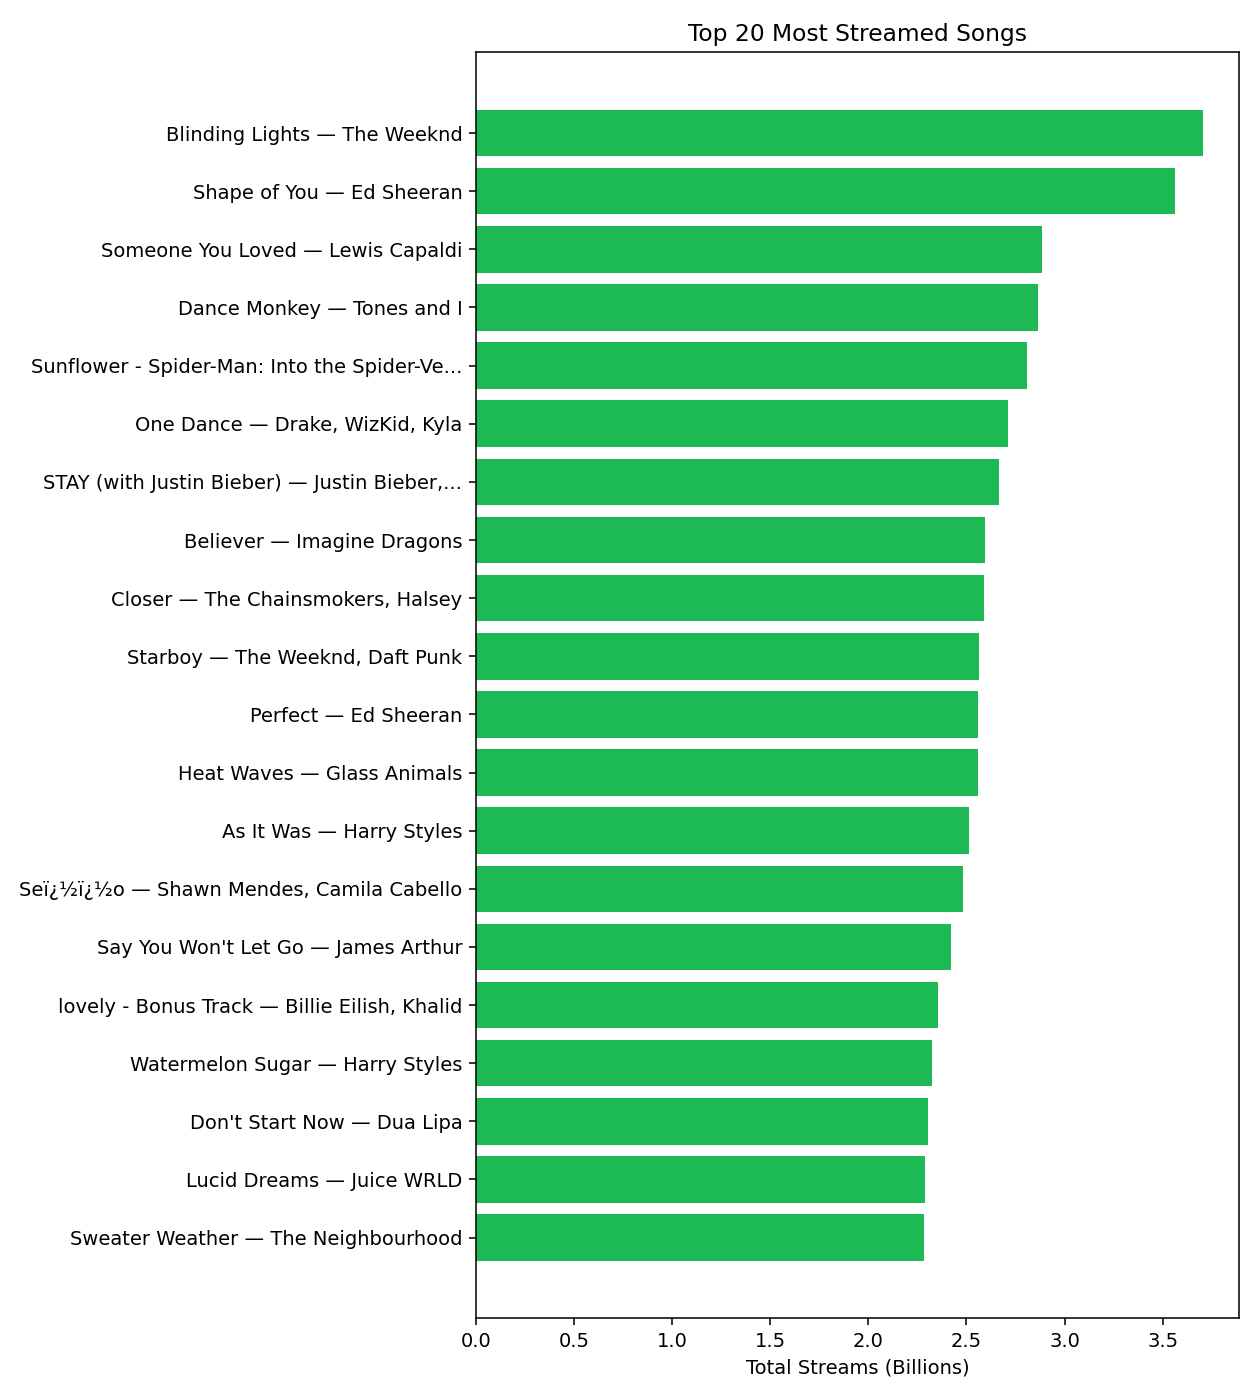
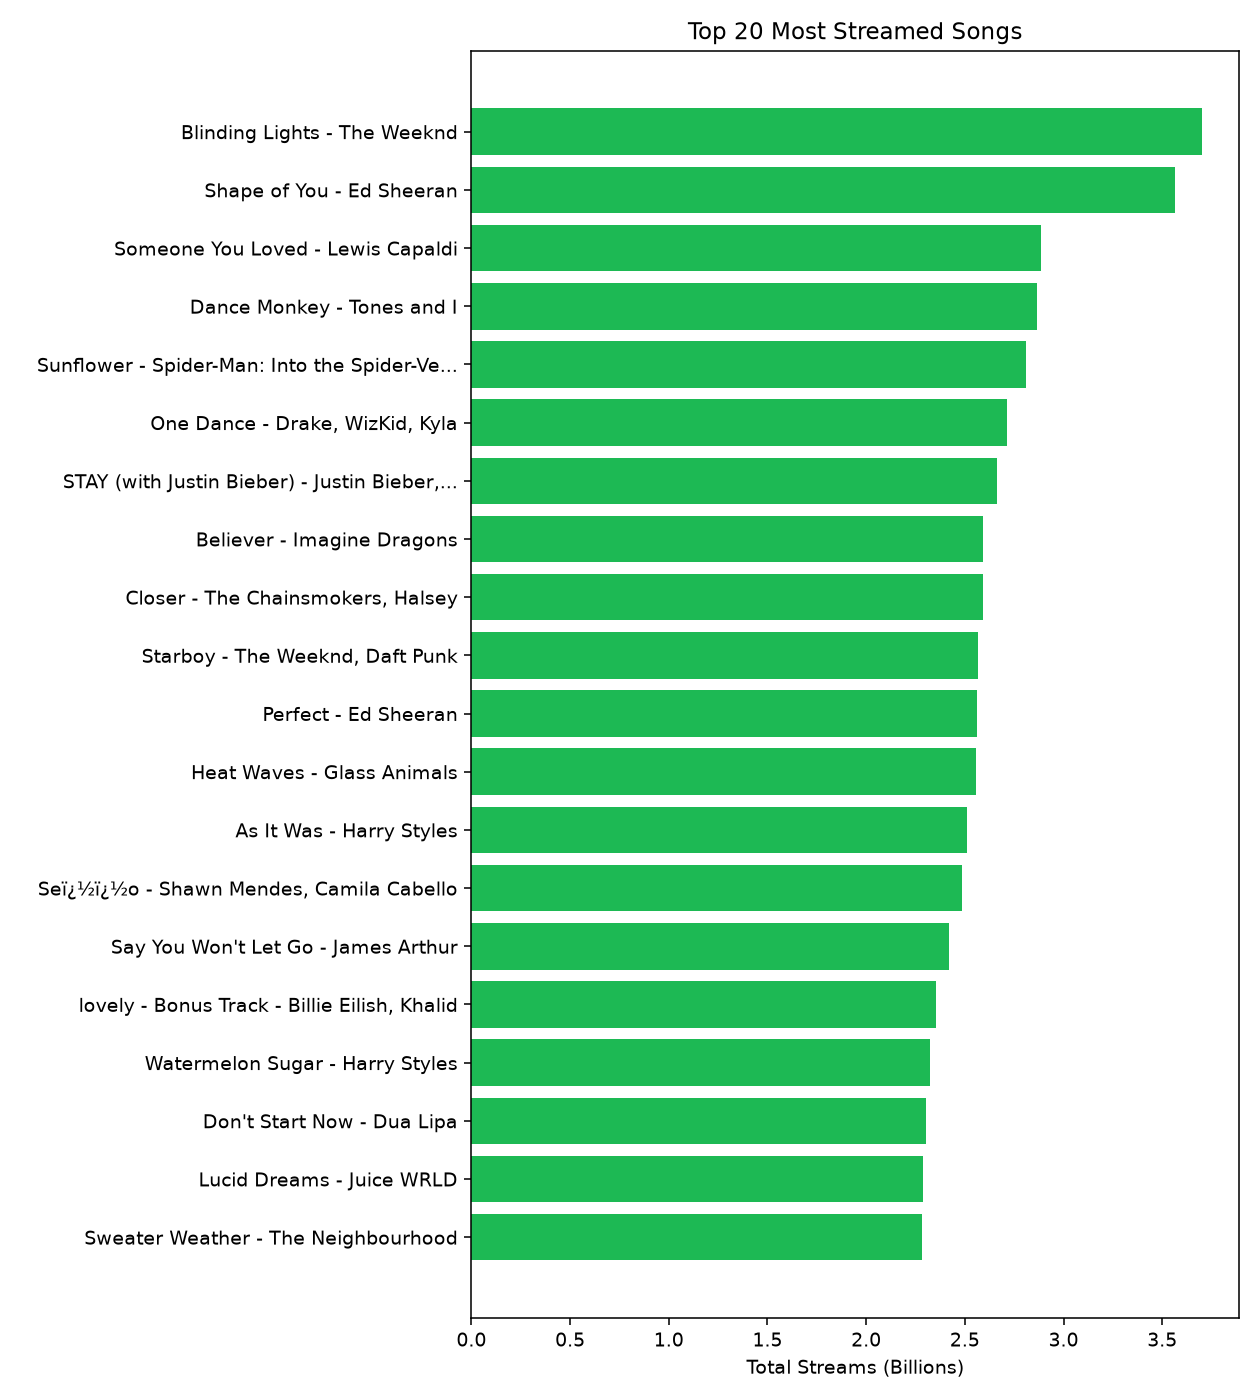
grammatical fixes

diff --git a/visuals.py b/visuals.py
@@ -77,7 +77,7 @@ def load_user(path: str = "spotify_history.csv") -> pd.DataFrame:
 def plot_global_top_songs(df: pd.DataFrame, n: int = 20) -> None:
     top = df.nlargest(n, "streams")[::-1]
     plt.figure(figsize=(9, 10))
-    labels = (top["track_name"] + " — " + top["artist_name"]).apply(lambda s: truncate_label(s, 45))
+    labels = (top["track_name"] + " - " + top["artist_name"]).apply(lambda s: truncate_label(s, 45))
     streams_billions = top["streams"] / 1_000_000_000
     plt.barh(labels, streams_billions, color="#1DB954")
     plt.xlabel("Total Streams (Billions)")
@@ -120,7 +120,7 @@ def plot_user_top_artists(df: pd.DataFrame, n: int = 15) -> None:
 
 
 def plot_user_top_tracks(df: pd.DataFrame, n: int = 15) -> None:
-    track_labels = df["track_name"] + " — " + df["artist_name"]
+    track_labels = df["track_name"] + " - " + df["artist_name"]
     top = df.assign(label=track_labels).groupby("label")["hours_played"].sum().sort_values(ascending=False).head(n)[::-1]
     labels = [truncate_label(lbl, 45) for lbl in top.index]
     plt.figure(figsize=(9, 10))
@@ -170,7 +170,7 @@ def plot_overlap_bar(merged: pd.DataFrame, user_df: pd.DataFrame) -> None:
 
 def plot_overlap_top_tracks(merged: pd.DataFrame, top_n: int = 10) -> None:
     """Top overlapping tracks by hours listened."""
-    labels = merged["track_name_user"] + " — " + merged["artist_name_user"]
+    labels = merged["track_name_user"] + " - " + merged["artist_name_user"]
     totals = (
         merged.assign(label=labels)
         .groupby("label")["hours_played_user"]
